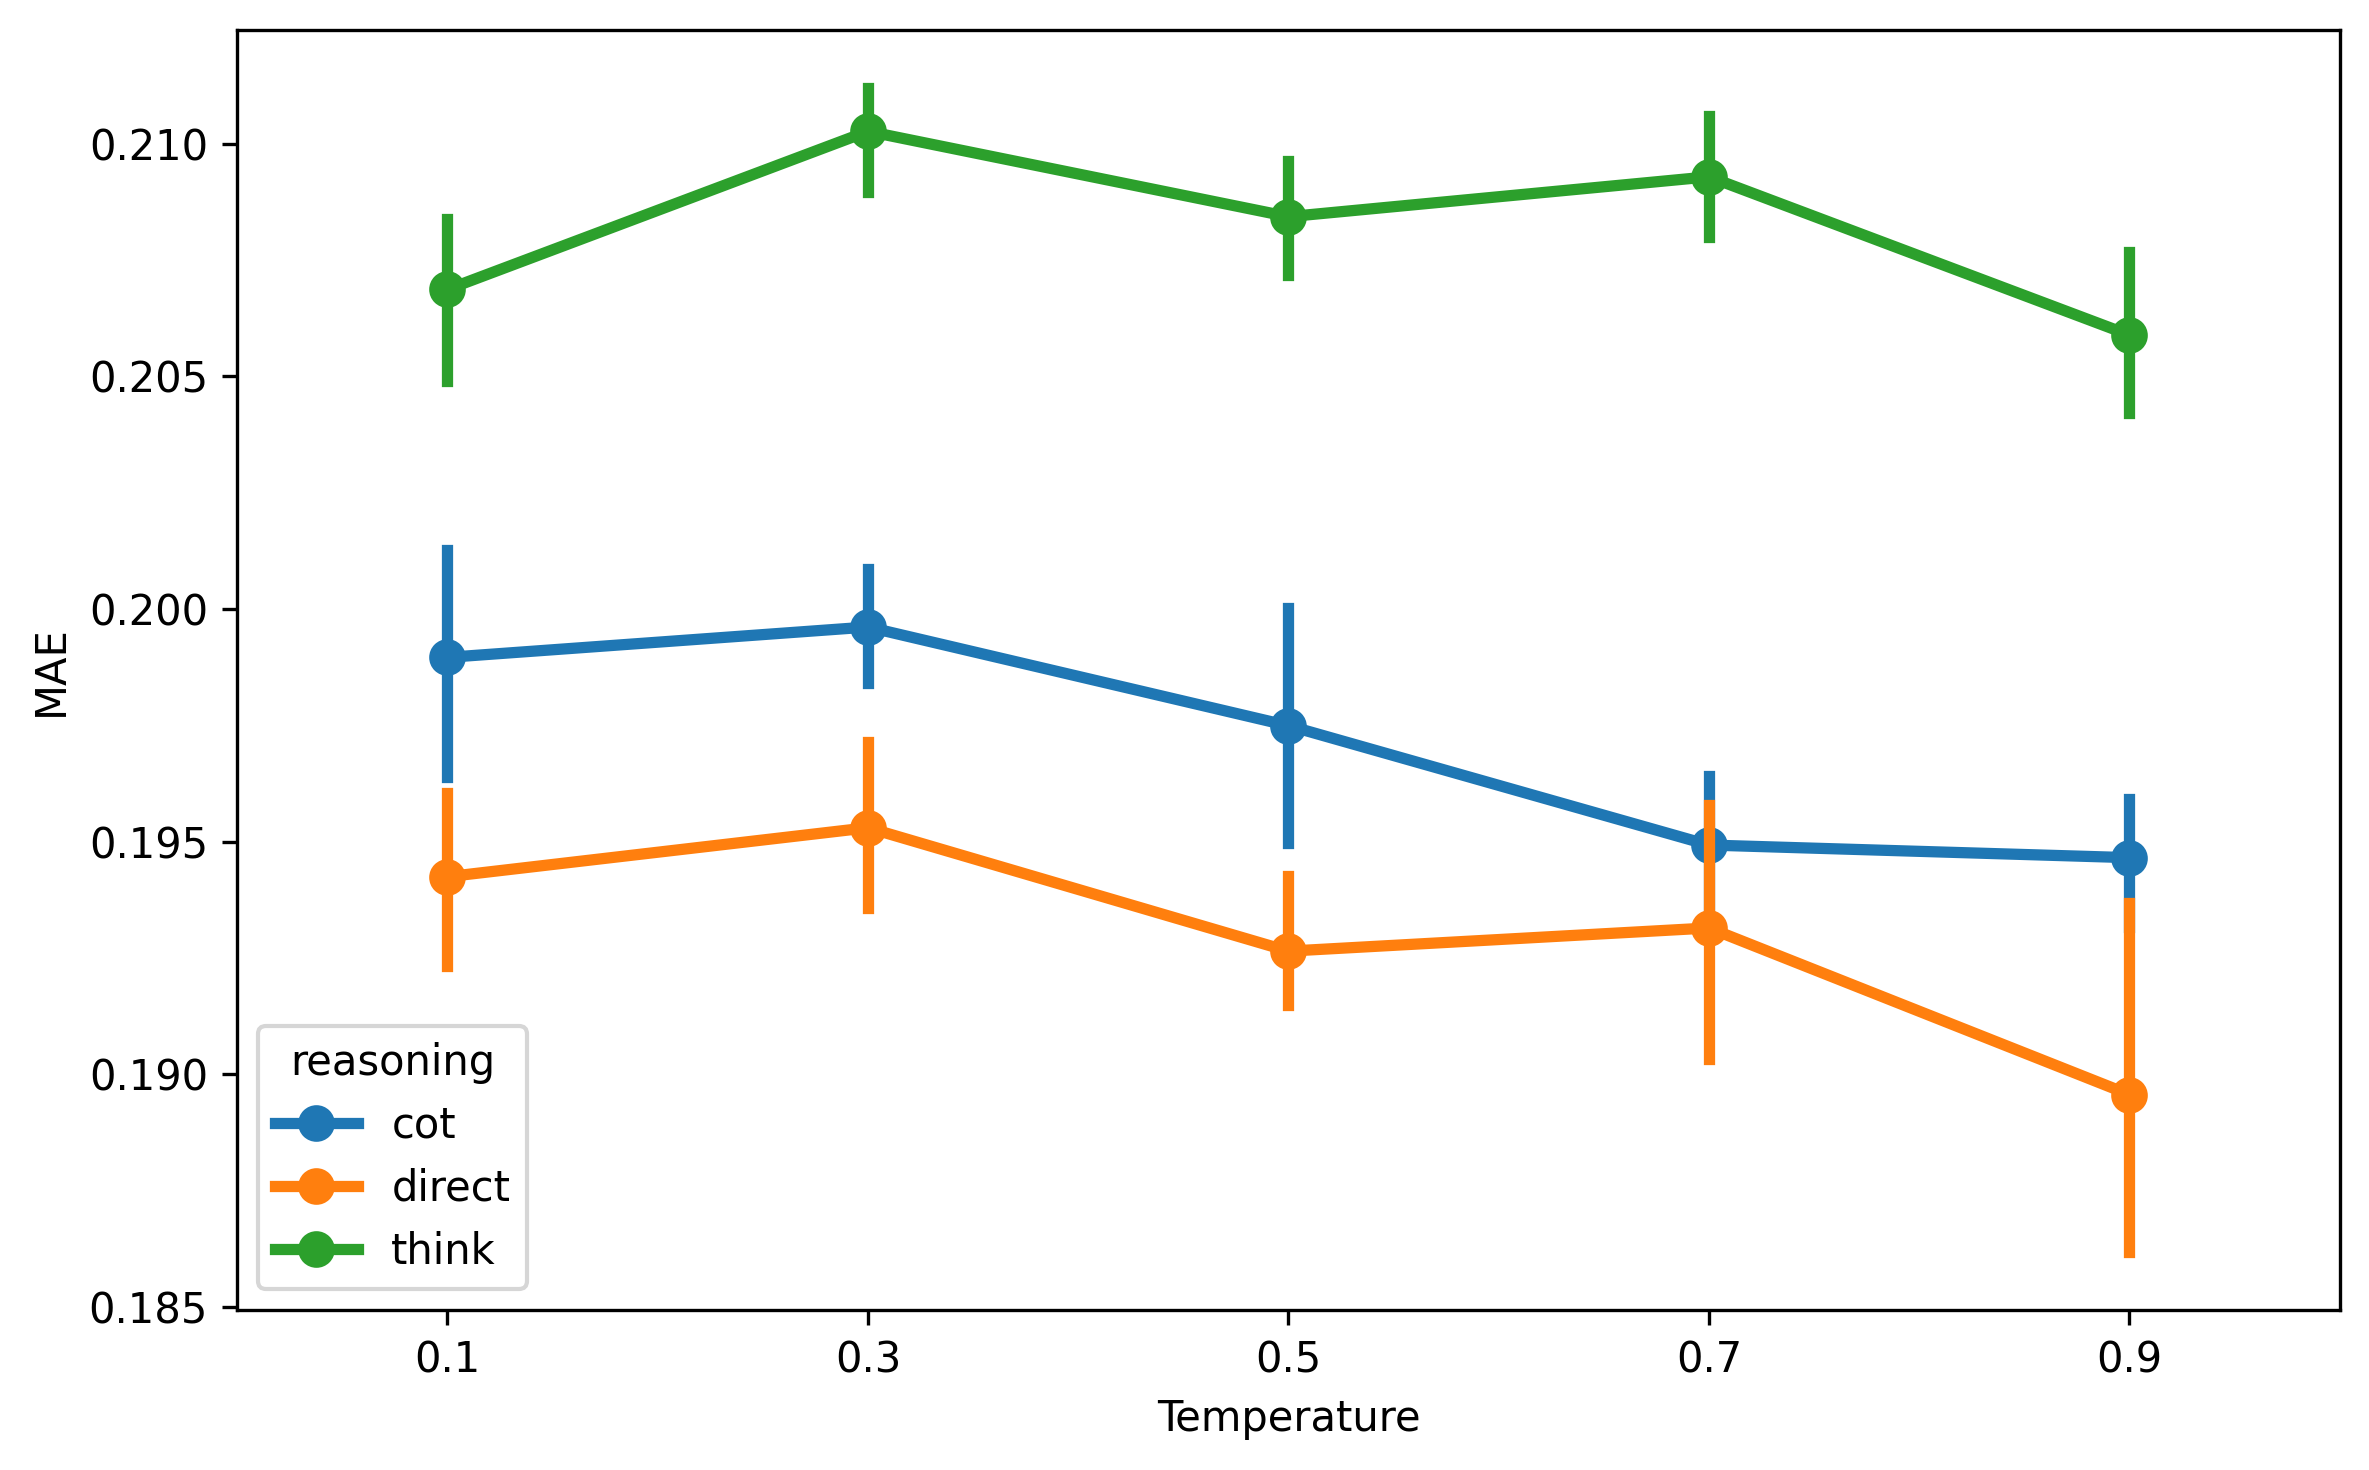
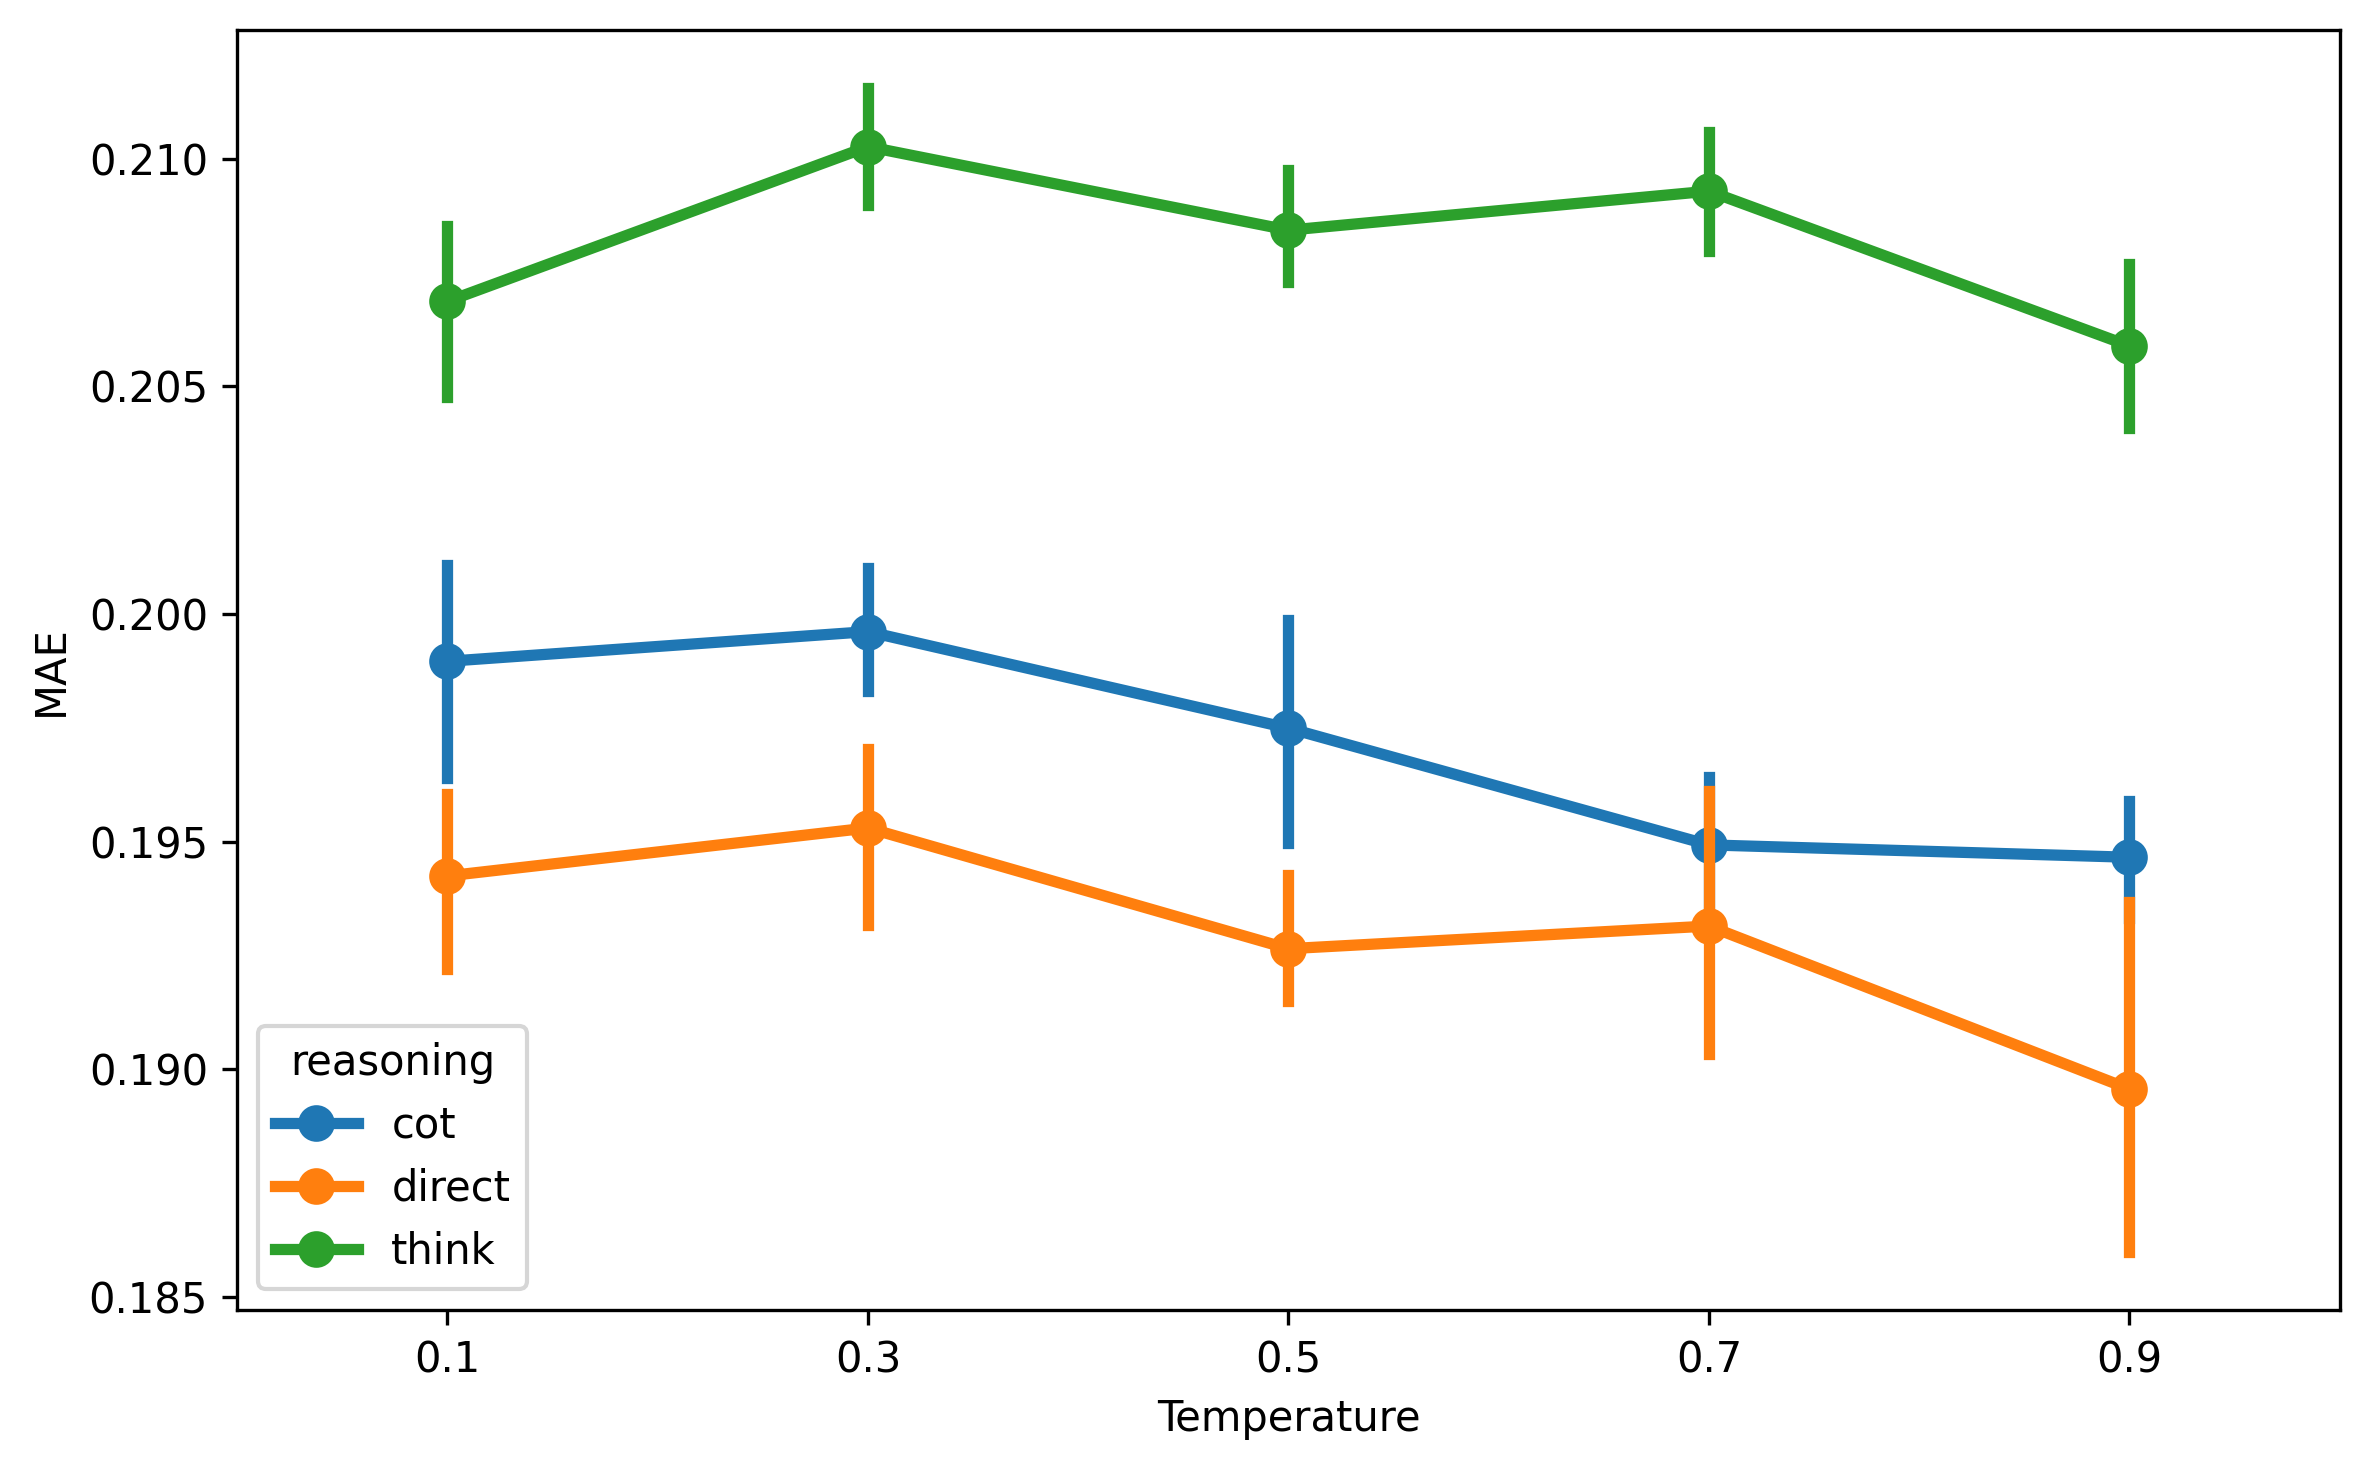
Tukey tabelle added

diff --git a/analysis/analyze_inference.py b/analysis/analyze_inference.py
@@ -16,7 +16,7 @@ import re
 # ============================================================
 
 USE_LATEST_OUTPUT = False
-MANUAL_FILE = "output_9.csv"
+MANUAL_FILE = "output_8.csv"
 
 results_dir = "results"
 
@@ -161,6 +161,75 @@ def save_interaction_plot(df, dependent_var, filename, ylabel):
     plt.close()
 
 
+
+def save_tukey_results(df, variable, factor, anova_table, filename):
+    effect_name = f"C({factor})"
+
+    if effect_name not in anova_table.index:
+        return
+
+    p = anova_table.loc[effect_name, "PR(>F)"]
+
+    if p >= 0.05:
+        return
+
+    tukey = pairwise_tukeyhsd(
+        endog=df[variable],
+        groups=df[factor],
+        alpha=0.05
+    )
+
+    tukey_df = pd.DataFrame(
+        tukey.summary().data[1:],
+        columns=tukey.summary().data[0]
+    )
+
+    # ---------- Formatierung ----------
+    numeric_cols = [
+        "meandiff",
+        "p-adj",
+        "lower",
+        "upper"
+    ]
+
+    for col in numeric_cols:
+        tukey_df[col] = tukey_df[col].astype(float).round(3)
+
+    tukey_df["p-adj"] = tukey_df["p-adj"].apply(
+        lambda x: "< .001" if x < 0.001 else f"{x:.3f}"
+    )
+
+    tukey_df["reject"] = tukey_df["reject"].map(
+        {
+            True: "Ja",
+            False: "Nein"
+        }
+    )
+
+    tukey_df.rename(
+        columns={
+            "group1": "Gruppe 1",
+            "group2": "Gruppe 2",
+            "meandiff": "Mittlere Differenz",
+            "p-adj": "p",
+            "lower": "95%-KI unten",
+            "upper": "95%-KI oben",
+            "reject": "Signifikant"
+        },
+        inplace=True
+    )
+
+    tukey_df.to_excel(
+        OUTPUT_DIR / f"{filename}.xlsx",
+        index=False
+    )
+
+    tukey_df.to_csv(
+        OUTPUT_DIR / f"{filename}.csv",
+        index=False
+    )
+
+    print(f"Saved {filename}")
 
 def run_tukey_if_significant(df, variable, factor, anova_table):
     effect_name = f"C({factor})"
@@ -388,7 +457,53 @@ run_tukey_if_significant(
     "reasoning",
     anova_mae
 )
+save_tukey_results(
+    agg,
+    "pearson_mean",
+    "temperature",
+    anova_pearson,
+    "tukey_pearson_temperature"
+)
 
+save_tukey_results(
+    agg,
+    "pearson_mean",
+    "reasoning",
+    anova_pearson,
+    "tukey_pearson_reasoning"
+)
+
+save_tukey_results(
+    agg,
+    "spearman_mean",
+    "temperature",
+    anova_spearman,
+    "tukey_spearman_temperature"
+)
+
+save_tukey_results(
+    agg,
+    "spearman_mean",
+    "reasoning",
+    anova_spearman,
+    "tukey_spearman_reasoning"
+)
+
+save_tukey_results(
+    mae_agg,
+    "mae",
+    "temperature",
+    anova_mae,
+    "tukey_mae_temperature"
+)
+
+save_tukey_results(
+    mae_agg,
+    "mae",
+    "reasoning",
+    anova_mae,
+    "tukey_mae_reasoning"
+)
 
 # ============================================================
 # Save Results
